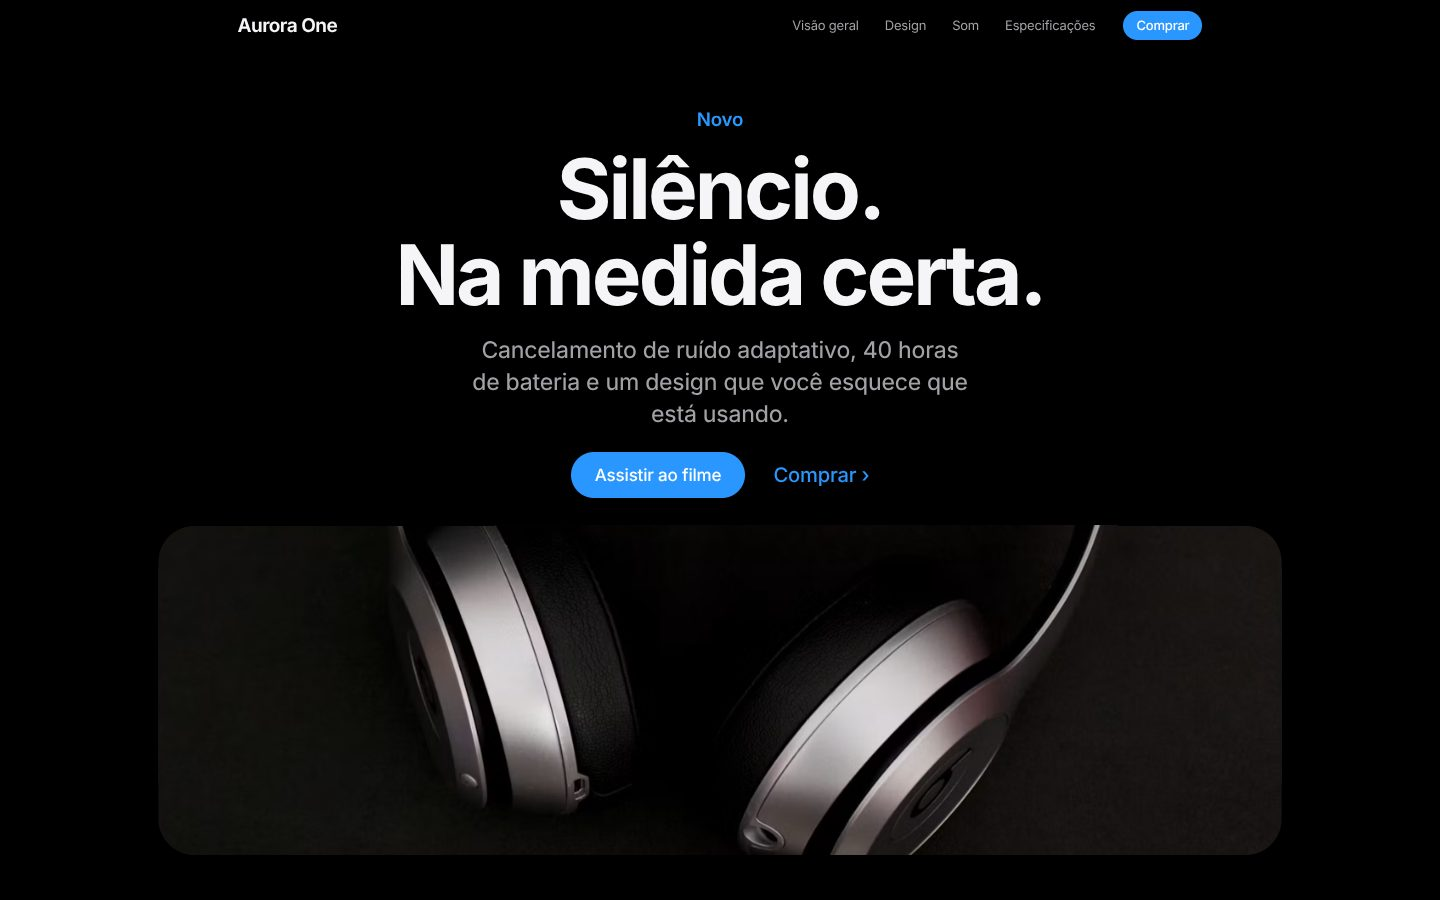
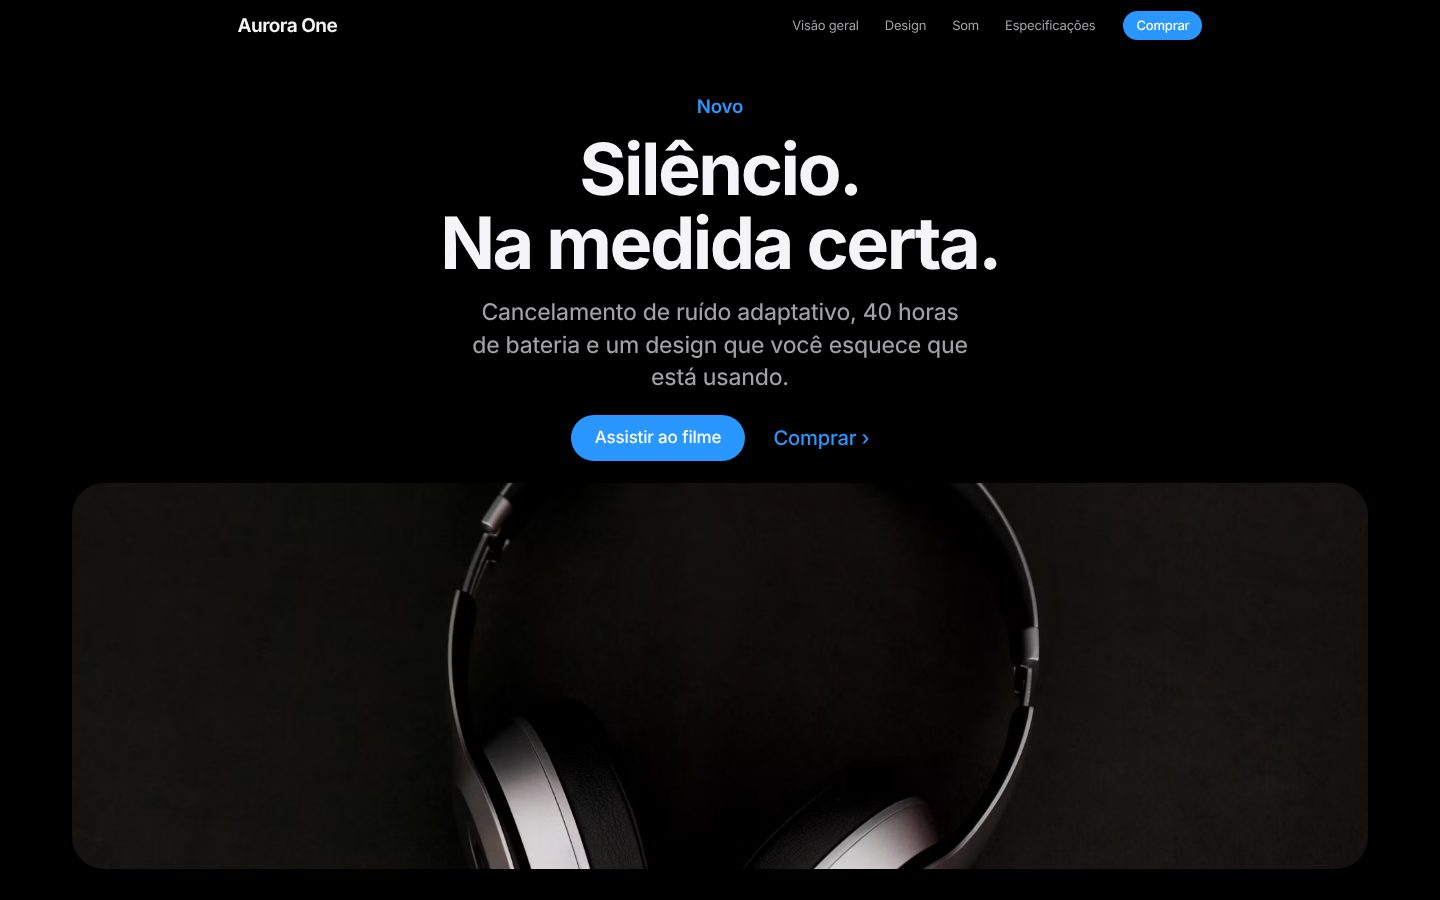
fix(vitrine): frame the whole photo in the cinematic hero
The hero card now resizes its own box instead of clipping a full-screen
image, so the photo is framed whole and larger at rest; the headline is
slightly smaller so the card gets more room.

Claude-Session: https://claude.ai/code/session_01PRbNU2Q2FVi1RuDS1Qbsnj

diff --git a/apps/vitrine/blocks/site.css b/apps/vitrine/blocks/site.css
@@ -501,7 +501,7 @@ html.v-motion .v-site [data-reveal]:not(.is-in) {
   position: absolute;
   inset: 0 0 auto 0;
   z-index: 2;
-  padding: calc(var(--nav-h) + 6vh) max(22px, 4vw) 0;
+  padding: calc(var(--nav-h) + 4.5vh) max(22px, 4vw) 0;
   text-align: center;
   display: grid;
   justify-items: center;
@@ -512,8 +512,12 @@ html.v-motion .v-site [data-reveal]:not(.is-in) {
 }
 
 .v-hero-copy .v-display {
-  max-width: 14ch;
-  font-size: clamp(40px, 5.8vw, 84px);
+  max-width: 16ch;
+  font-size: clamp(38px, 5vw, 72px);
+}
+
+.v-site[data-font="editorial"] .v-hero-copy .v-display {
+  font-size: clamp(42px, 5.6vw, 80px);
 }
 
 .v-hero-copy .v-lead {
@@ -525,15 +529,18 @@ html.v-motion .v-site [data-reveal]:not(.is-in) {
   margin-top: 22px;
 }
 
+/* The frame itself grows from a card under the headline to the full screen,
+   so the photo is always framed whole (object-fit: cover) instead of being
+   cropped to a thin slice. */
 .v-hero-frame {
   --m: max(0, 1 - var(--p, 0) * 1.8);
   position: absolute;
-  inset: 0;
-  clip-path: inset(
-    calc(var(--m) * var(--copy-share, 55%)) calc(var(--m) * 11%)
-      calc(var(--m) * 5%) calc(var(--m) * 11%) round calc(var(--m) * 36px)
-  );
-  will-change: clip-path;
+  top: calc(var(--m) * var(--copy-share, 50%));
+  left: calc(var(--m) * 5%);
+  right: calc(var(--m) * 5%);
+  bottom: calc(var(--m) * 3.5%);
+  border-radius: calc(var(--m) * 32px);
+  overflow: hidden;
 }
 
 .v-hero-frame::after {
@@ -549,16 +556,16 @@ html.v-motion .v-site [data-reveal]:not(.is-in) {
   width: 100%;
   height: 100%;
   object-fit: cover;
-  transform: scale(calc(1.18 - var(--p, 0) * 0.18));
+  transform: scale(calc(1.06 - var(--p, 0) * 0.06));
   will-change: transform;
 }
 
 @media (max-width: 760px) {
   .v-hero-frame {
-    clip-path: inset(
-      calc(var(--m) * var(--copy-share, 58%)) calc(var(--m) * 5%)
-        calc(var(--m) * 4%) calc(var(--m) * 5%) round calc(var(--m) * 24px)
-    );
+    left: calc(var(--m) * 16px);
+    right: calc(var(--m) * 16px);
+    bottom: calc(var(--m) * 16px);
+    border-radius: calc(var(--m) * 22px);
   }
 
   .v-hero-cinematic {
@@ -1839,7 +1846,7 @@ html.v-motion .v-site [data-reveal]:not(.is-in) {
 
   .v-hero-frame {
     position: relative;
-    clip-path: none;
+    inset: auto;
     height: 70vh;
     margin: 32px max(22px, 4vw) 0;
     border-radius: var(--radius);

diff --git a/apps/vitrine/blocks/components/cinema.tsx b/apps/vitrine/blocks/components/cinema.tsx
@@ -47,8 +47,8 @@ export function Hero(p: PropsOf<"Hero">) {
     if (!el || !copy || !win) return;
     const measure = () => {
       const share = Math.min(
-        0.72,
-        (copy.offsetHeight + 28) / Math.max(1, win.innerHeight)
+        0.62,
+        (copy.offsetHeight + 22) / Math.max(1, win.innerHeight)
       );
       el.style.setProperty("--copy-share", `${(share * 100).toFixed(2)}%`);
     };
